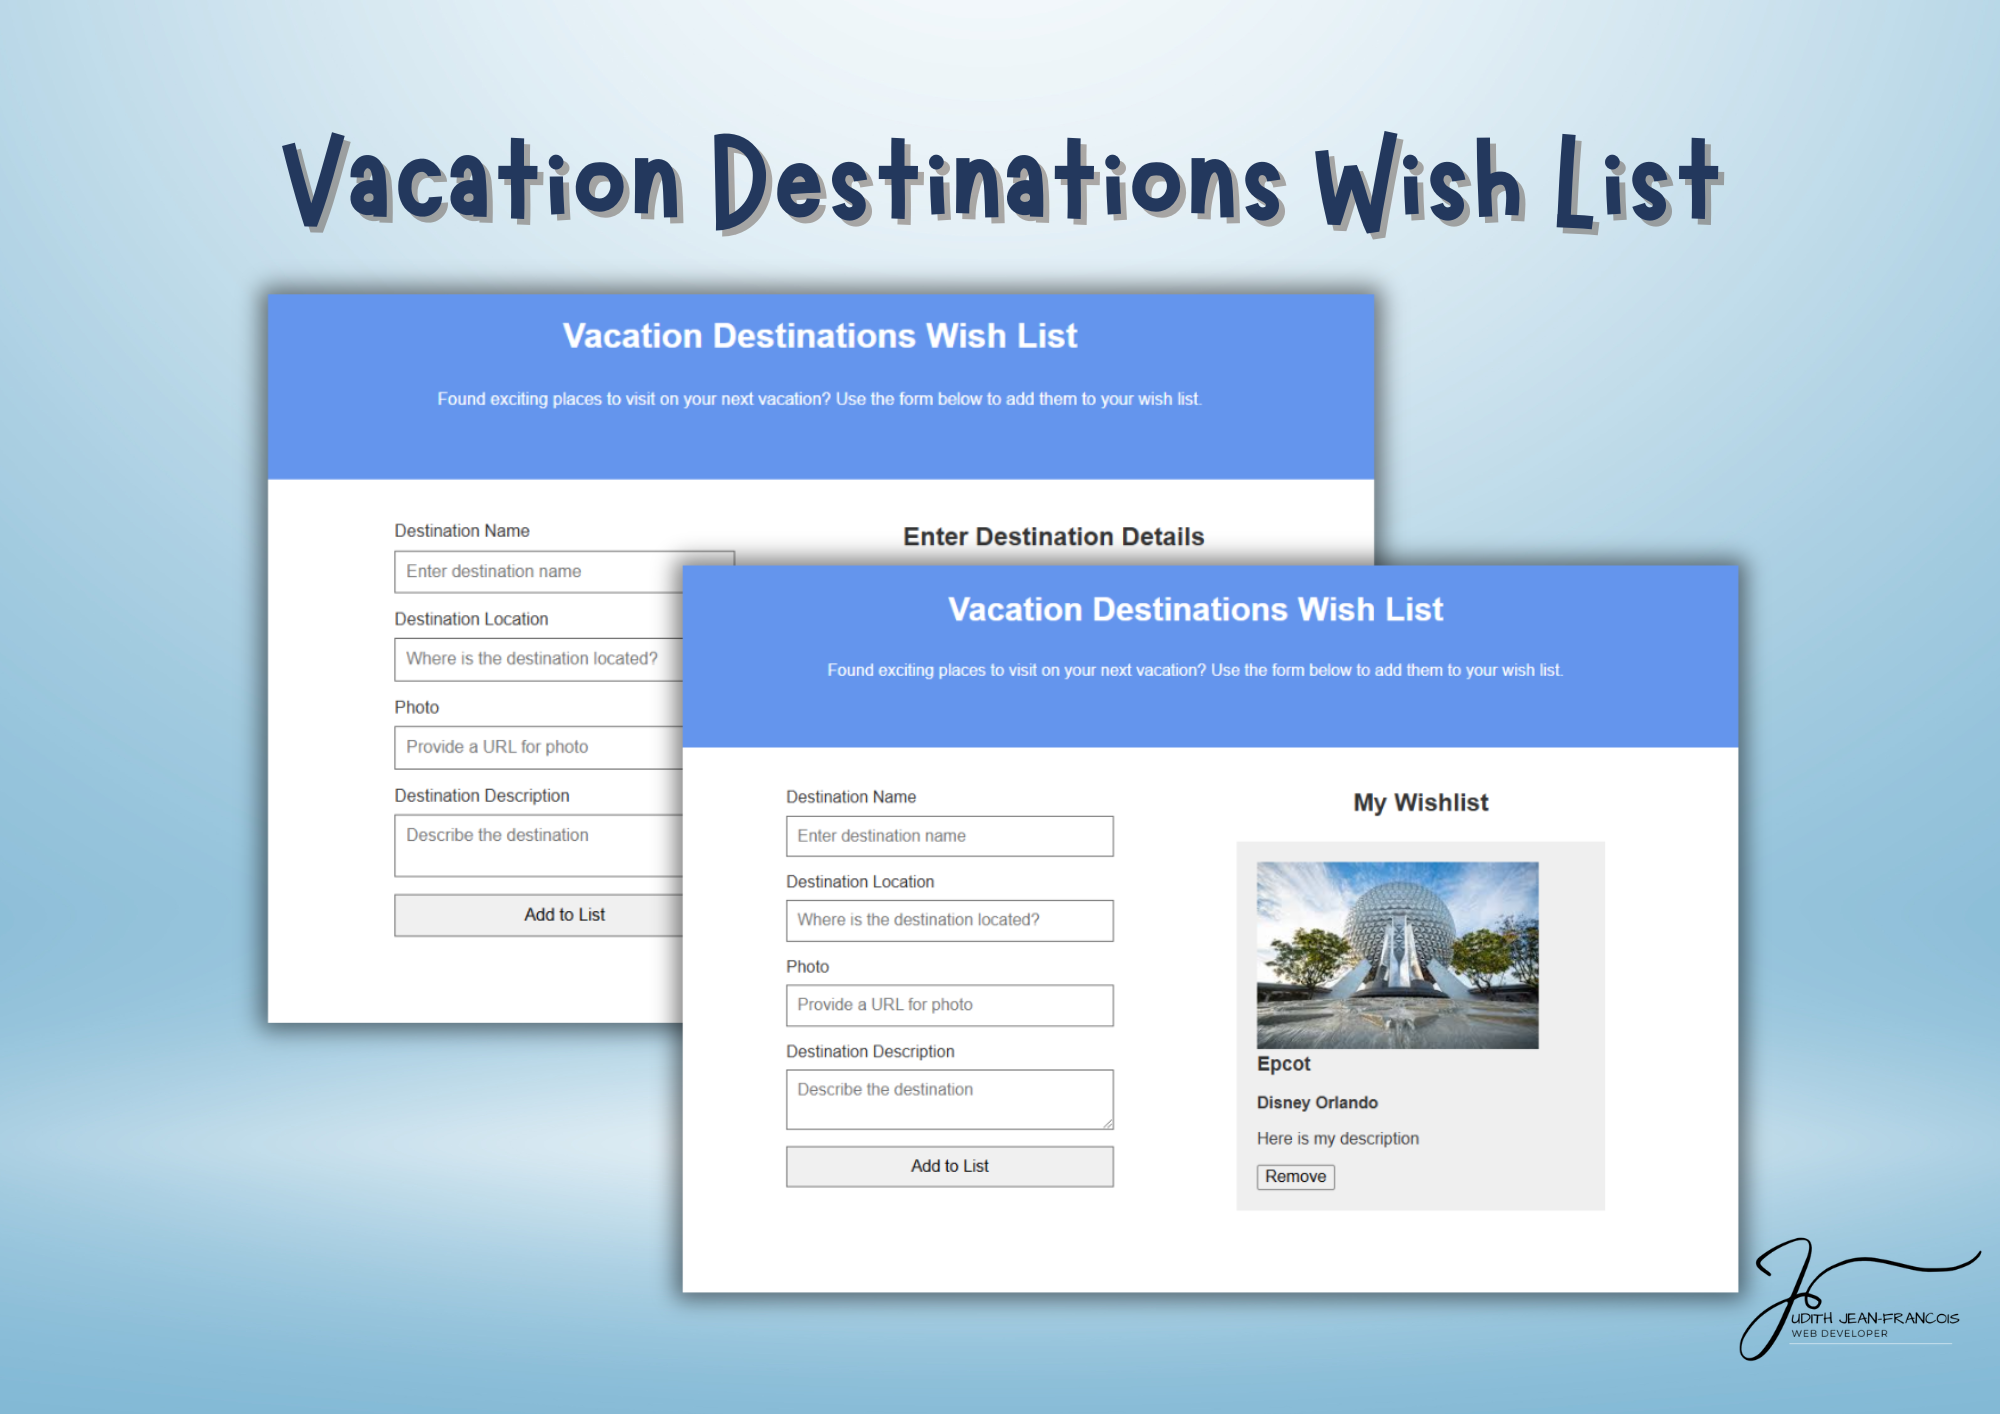
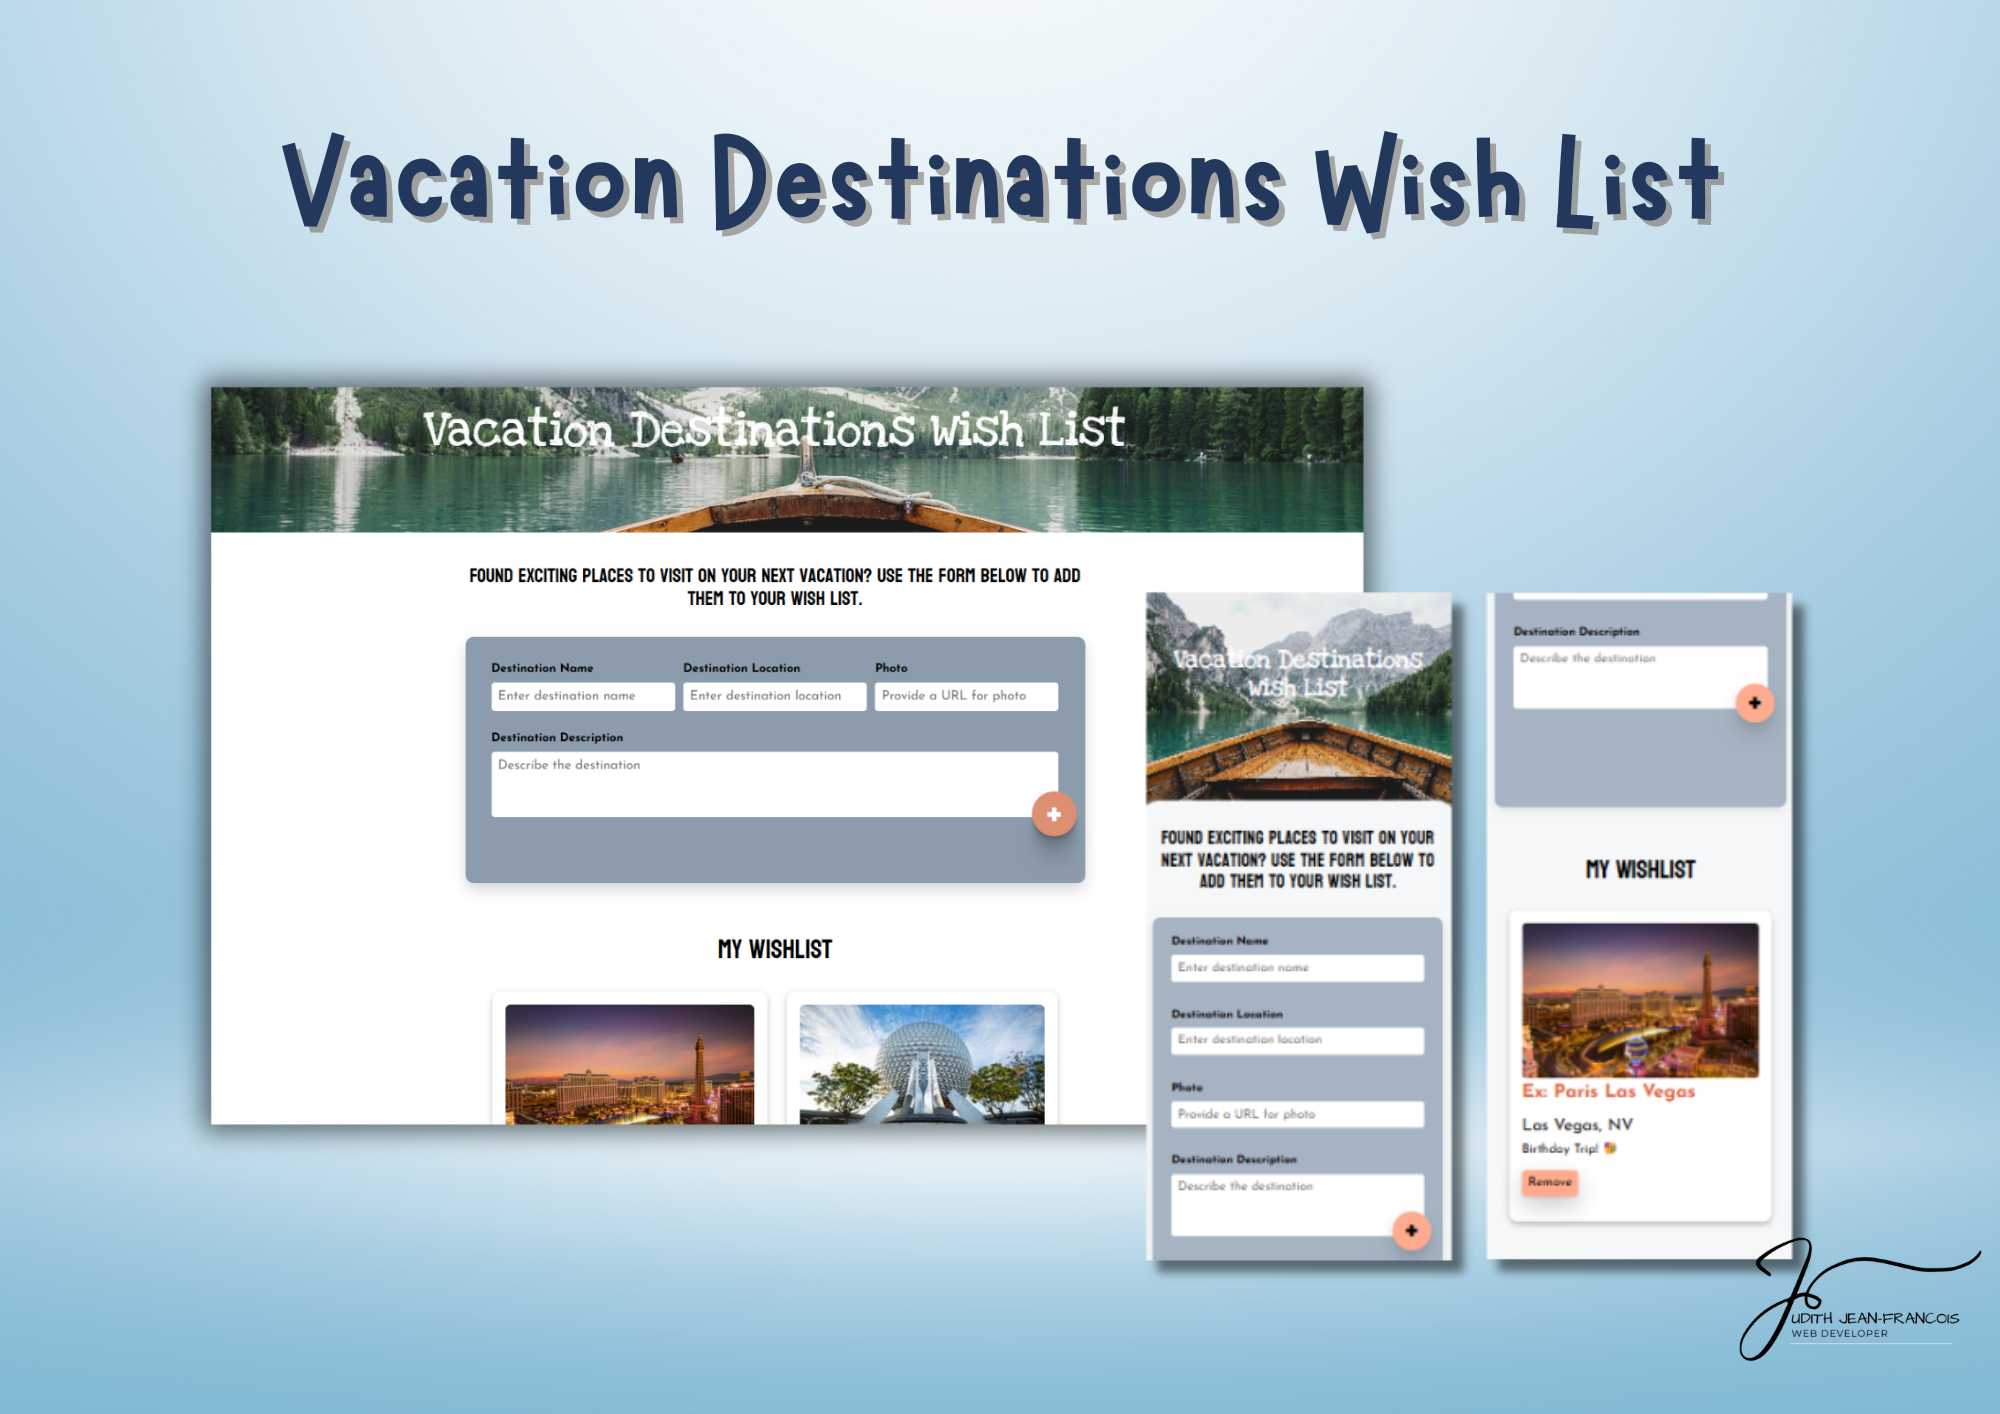
Updated readme file

diff --git a/README.md b/README.md
@@ -14,16 +14,19 @@
 
 ## Description
 
-This project allows users to create a wish list of vacation destinations by submitting a form. The entered details generate a dynamic card displaying the destination name, location, photo (if provided), and description. Users can also remove destinations from the list.
+Vacation Destinations Wish List is a polished, mobile-responsive app that allows users to create and manage a list of dream travel spots. Users can submit new destinations through a form, view them as dynamic cards, and remove them at any time.
+
+This project focuses on clean design, user-friendly interactions, accessibility, and mobile-first responsiveness.
 
 ### Features
 
 ✔ Add vacation destinations to a wish list using a form
 ✔ Auto-clear form fields after submission
-✔ Display destinations as cards with an optional image
-✔ Default image provided when no URL is entered
-✔ Remove destinations from the list
-✔ Dynamic title update when the first destination is added
+✔ Display destinations as responsive cards with custom or default images
+✔ Remove destinations from the list with a smooth hover + focus experience
+✔ "Empty State" message appears when no destinations are present
+✔ Mobile-first, fully responsive layout with custom header + background design
+✔ Keyboard navigable (skip link, focusable buttons, screen reader-friendly labels)
 
 ### How It Works
 
@@ -31,9 +34,11 @@ This project allows users to create a wish list of vacation destinations by subm
 - On form submission:
   - Input values are captured.
   - Form fields are cleared.
+  - A default image appears if no photo is provided.
   - A new destination card is created dynamically.
   - If this is the first entry, the title updates to "My Wishlist."
 - Users can click the Remove button to delete a destination from the list.
+- If all destinations are removed, an empty state image and message appear automatically.
 
 ### Screenshot
 
@@ -46,11 +51,20 @@ This project allows users to create a wish list of vacation destinations by subm
 
 ## My process
 
+- Started with a basic version from a course exercise.
+- Redesigned layout entirely in Figma (desktop + mobile mockups).
+- Implemented a mobile-first, card-based UI.
+- Added visual polish: box shadows, hover transitions, button focus states.
+- Focused on accessibility: skip links, aria labels, keyboard navigation.
+- Troubleshooted dynamic behaviors like empty state messages.
+- Created a smooth user experience across devices.
+
 ### Technologies Used
 
-- HTML5
-- CSS
-- JavaScript: Handles form submission, card creation, and deletion
+- HTML5 (Semantic structure)
+- CSS3 (Custom styling + responsive design)
+- JavaScript (DOM manipulation, dynamic rendering, form handling)
+- Figma (UI design planning)
 
 ### Project Breakdown
 
@@ -75,9 +89,10 @@ This project allows users to create a wish list of vacation destinations by subm
 
 ### Future Improvement
 
-- Add local storage to save destinations across sessions
-- Allow users to edit existing destinations
-- Improve UI with animations and responsive design
+- Save destinations to LocalStorage for persistence across sessions
+- Add "favorite" functionality (heart toggle)
+- Add edit/update functionality to existing cards
+- Animations for card entry/removal transitions
 
 ### Acknowledgments
 
